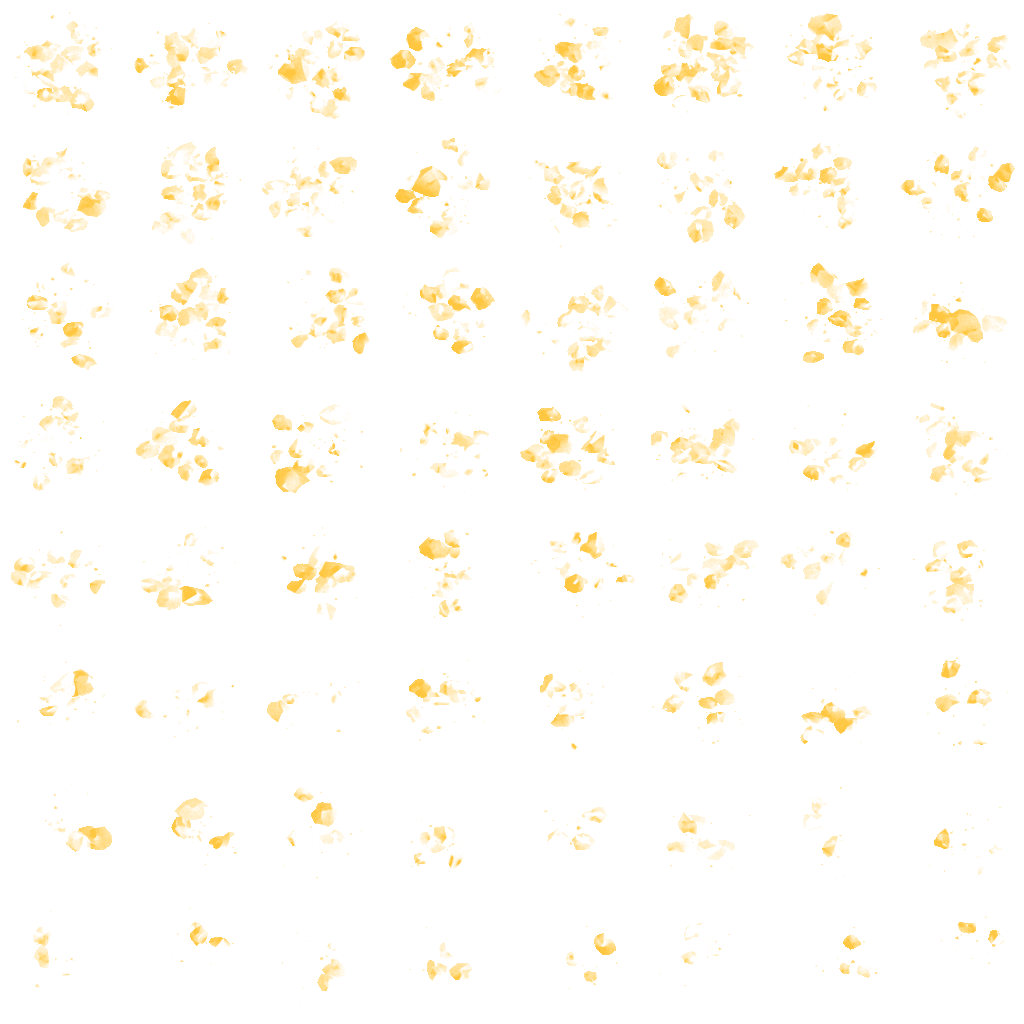
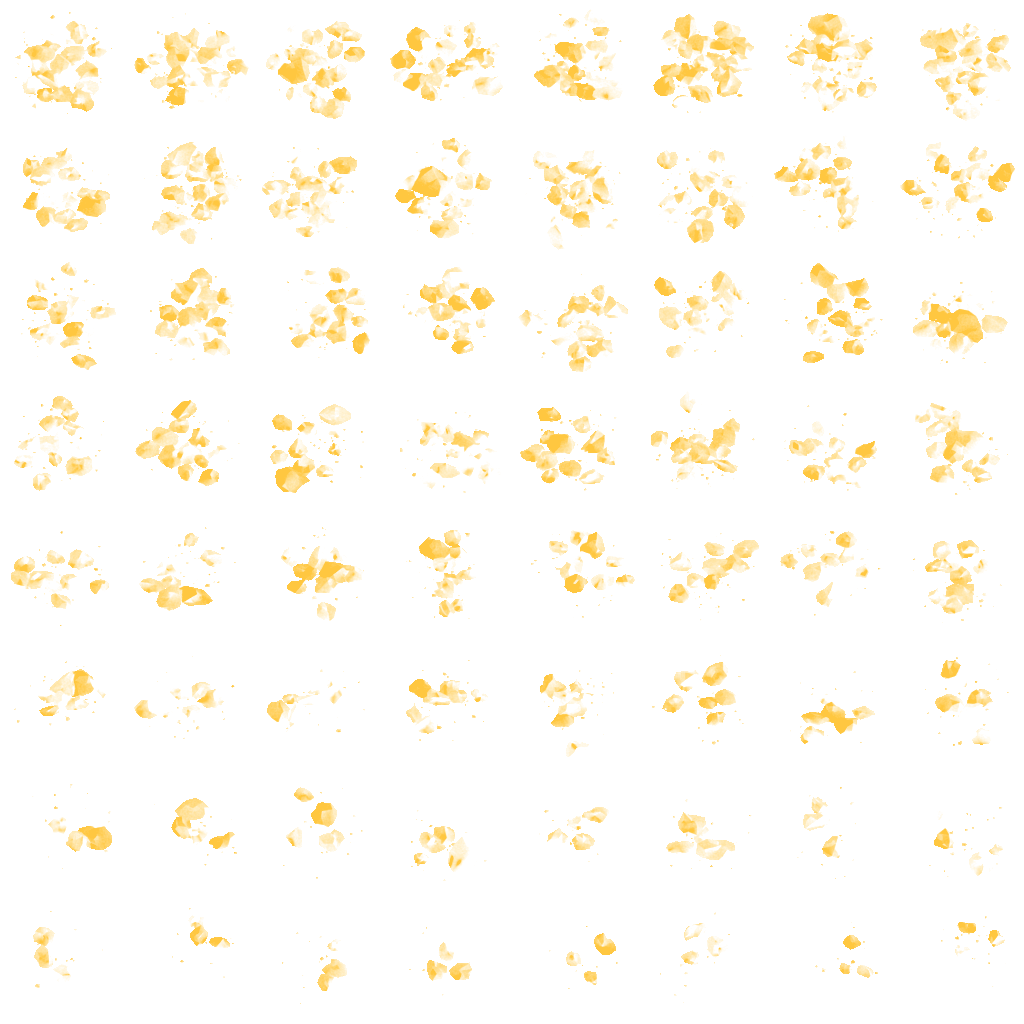
Monazite M1 : seuil de la couche d'effet 0,40 a 0,75 (nuit : N1 au cuivre 13,1 / 12,4 en moteur)
x2_lisibilite.py sur les captures x2-supra : 11 OK, 1 ECHEC (N6 pour moitie, comme Z3).
check_gisement : 7 OK, mutants 10/10 refuses ; x2-supra sans images : BILAN 27 OK.

diff --git a/tools/render/pieces/ressources/directions.py b/tools/render/pieces/ressources/directions.py
@@ -621,7 +621,10 @@ ICONE["M1"] = dict(lames=(0, 0), roches=(4, 5), roche_taille=(0.19, 0.26), roche
                    roche_mats=("monazite_or", "monazite_miel", "monazite_resine", "monazite_or", "monazite_soufre"))
 # Production (128 éch.) : check_gisement refusait UN pixel d'effet hors du minerai (bord d'un rognon) avec le seuil de Z3
 # (0,45 à 0,80) : seuil 0,48 à 0,82 (part du minerai allumée 56 %, Z3 : 62 %).
-EFFET["M1"] = dict(teinte=(1.0, 0.78, 0.25), seuil=(0.48, 0.82))
+# Captures en moteur x2-supra (30/10, x2_lisibilite.py) au seuil 0,48 à 0,82 : 10 OK, 2 ECHEC (N1 : nuit, ΔE76 au cuivre
+# 9,8 / 9,3 ; Z3 donnait 14,0 / 13,7 ; N6 en échec pour moitié comme Z3) : M1, plus sombre que Z3, allume moins de faces
+# de nuit. Seuil abaissé à 0,40 à 0,75 (le pixel hors minerai est désormais éteint par feuille.post).
+EFFET["M1"] = dict(teinte=(1.0, 0.78, 0.25), seuil=(0.40, 0.75))
 
 DIRECTIONS["M2"] = dict(DIRECTIONS["M1"], nom="rognons de monazite hérissés de prismes en coin",
                         roches=(9, 8, 7, 6, 5, 4, 2, 2),
